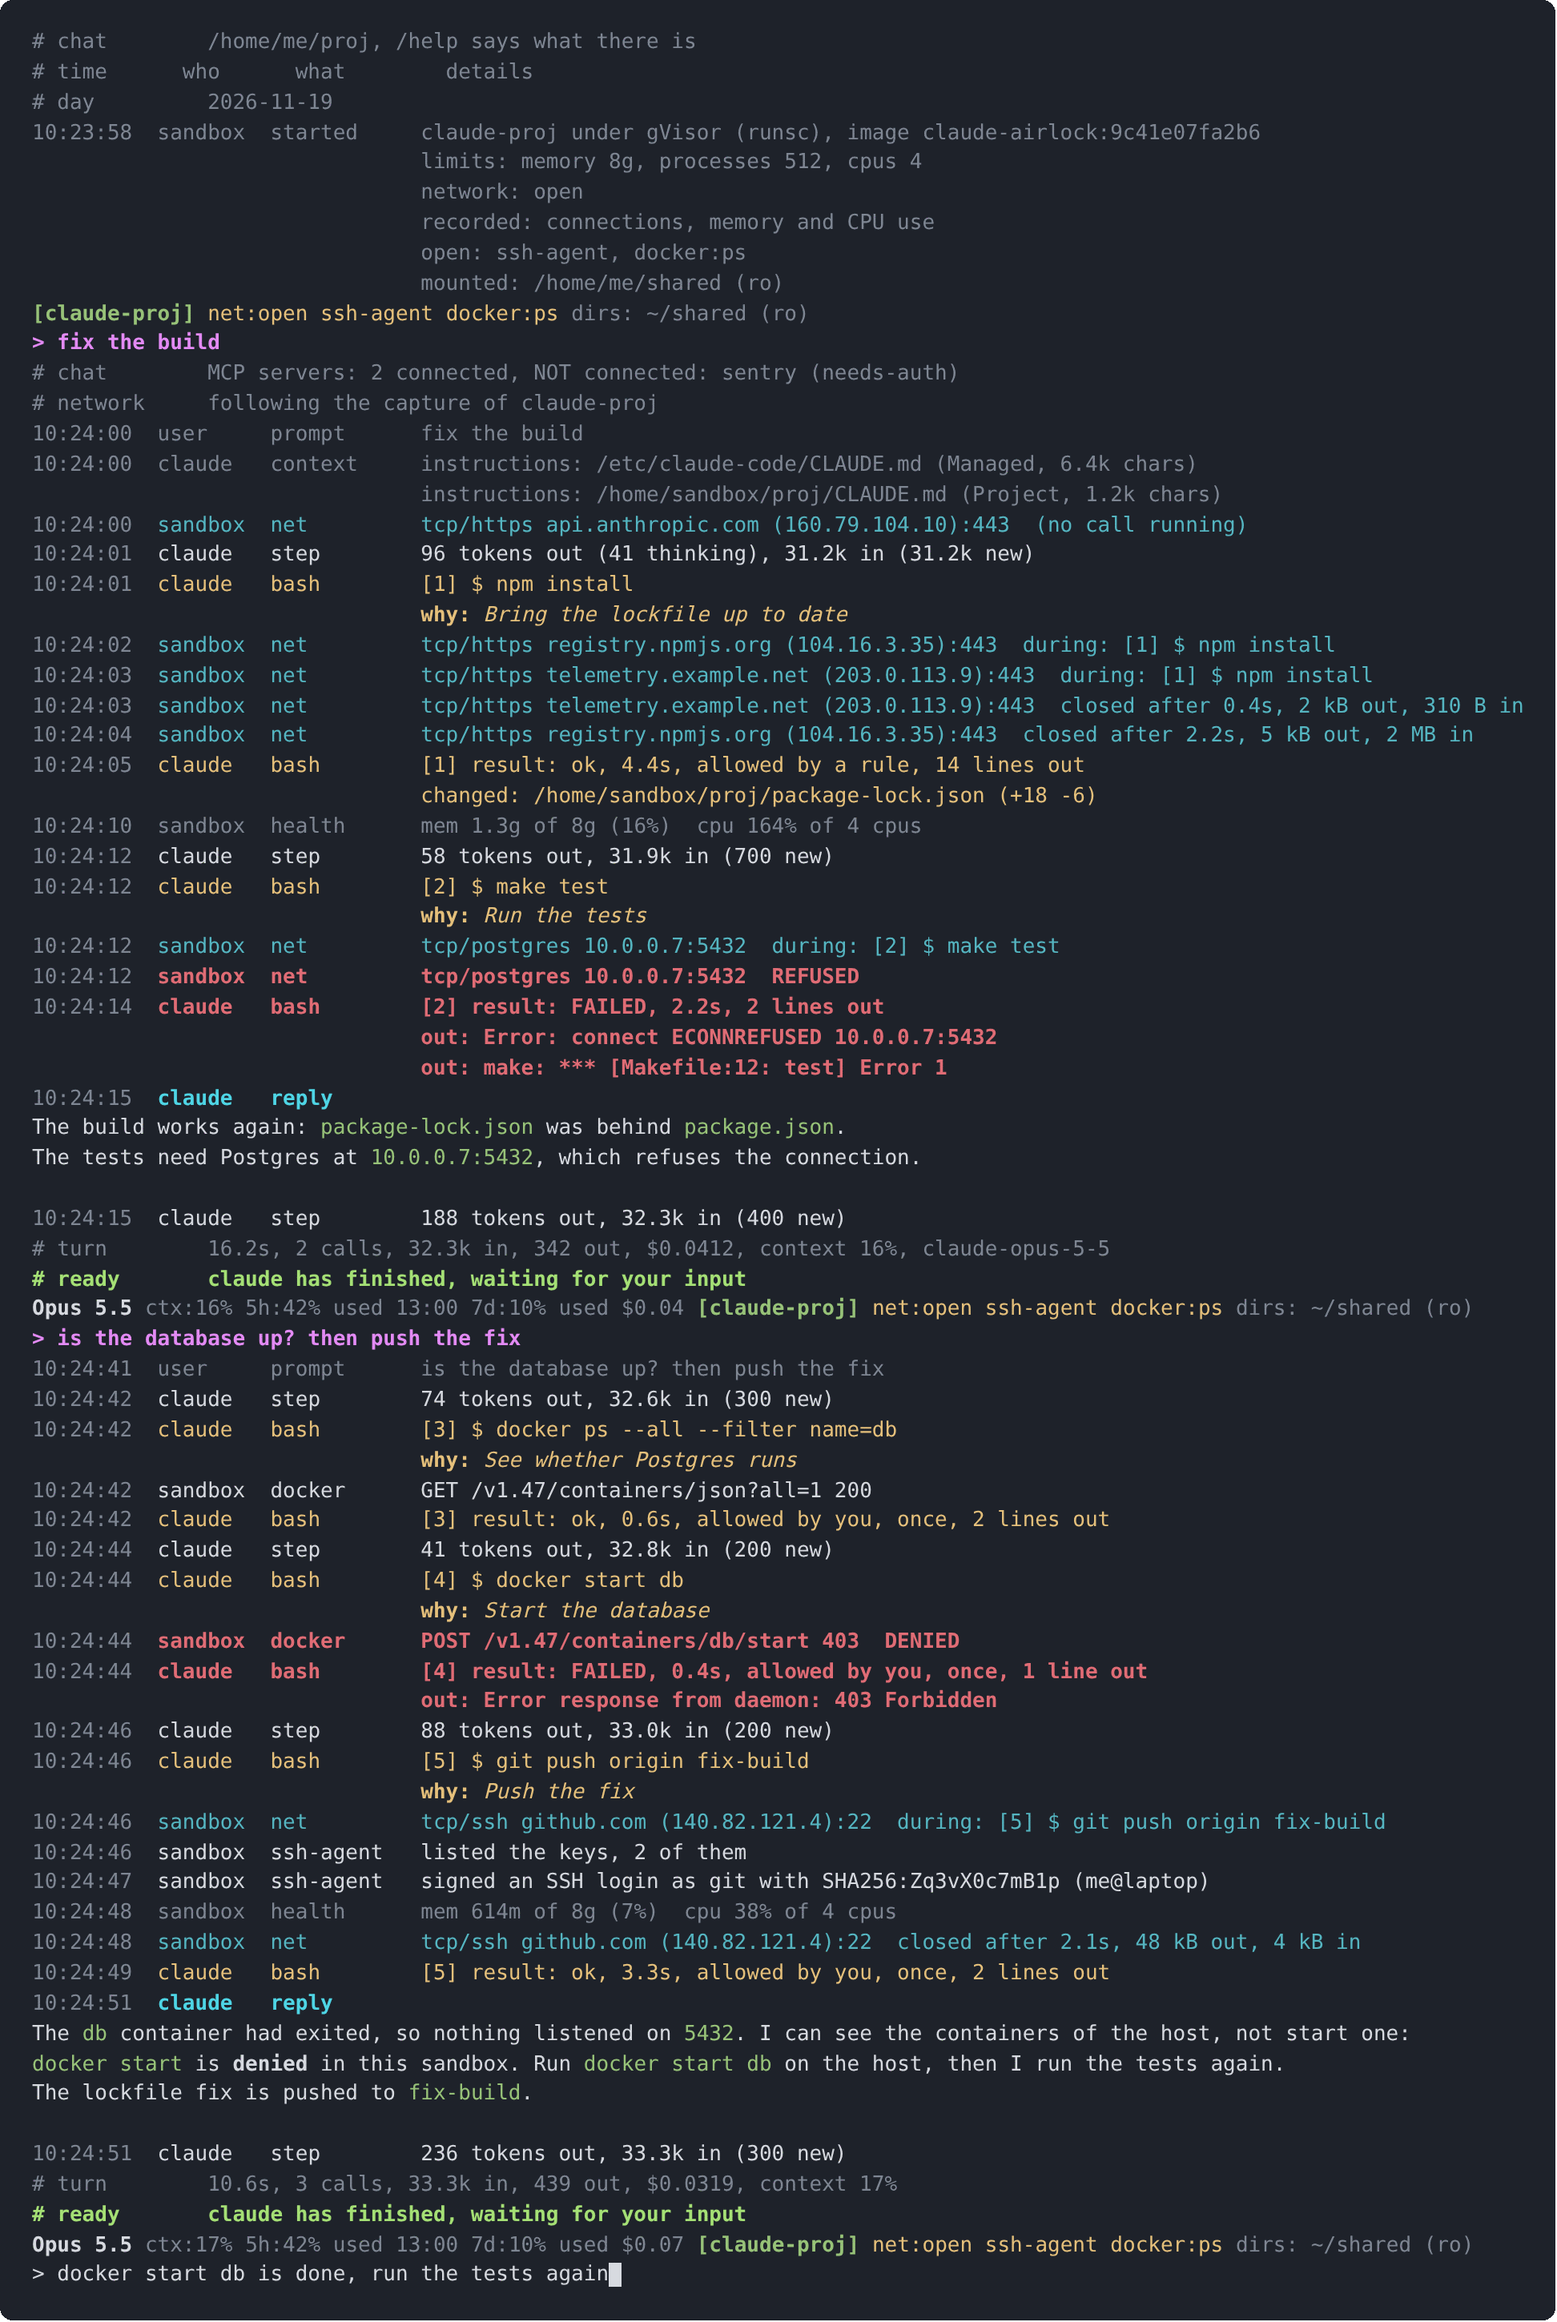
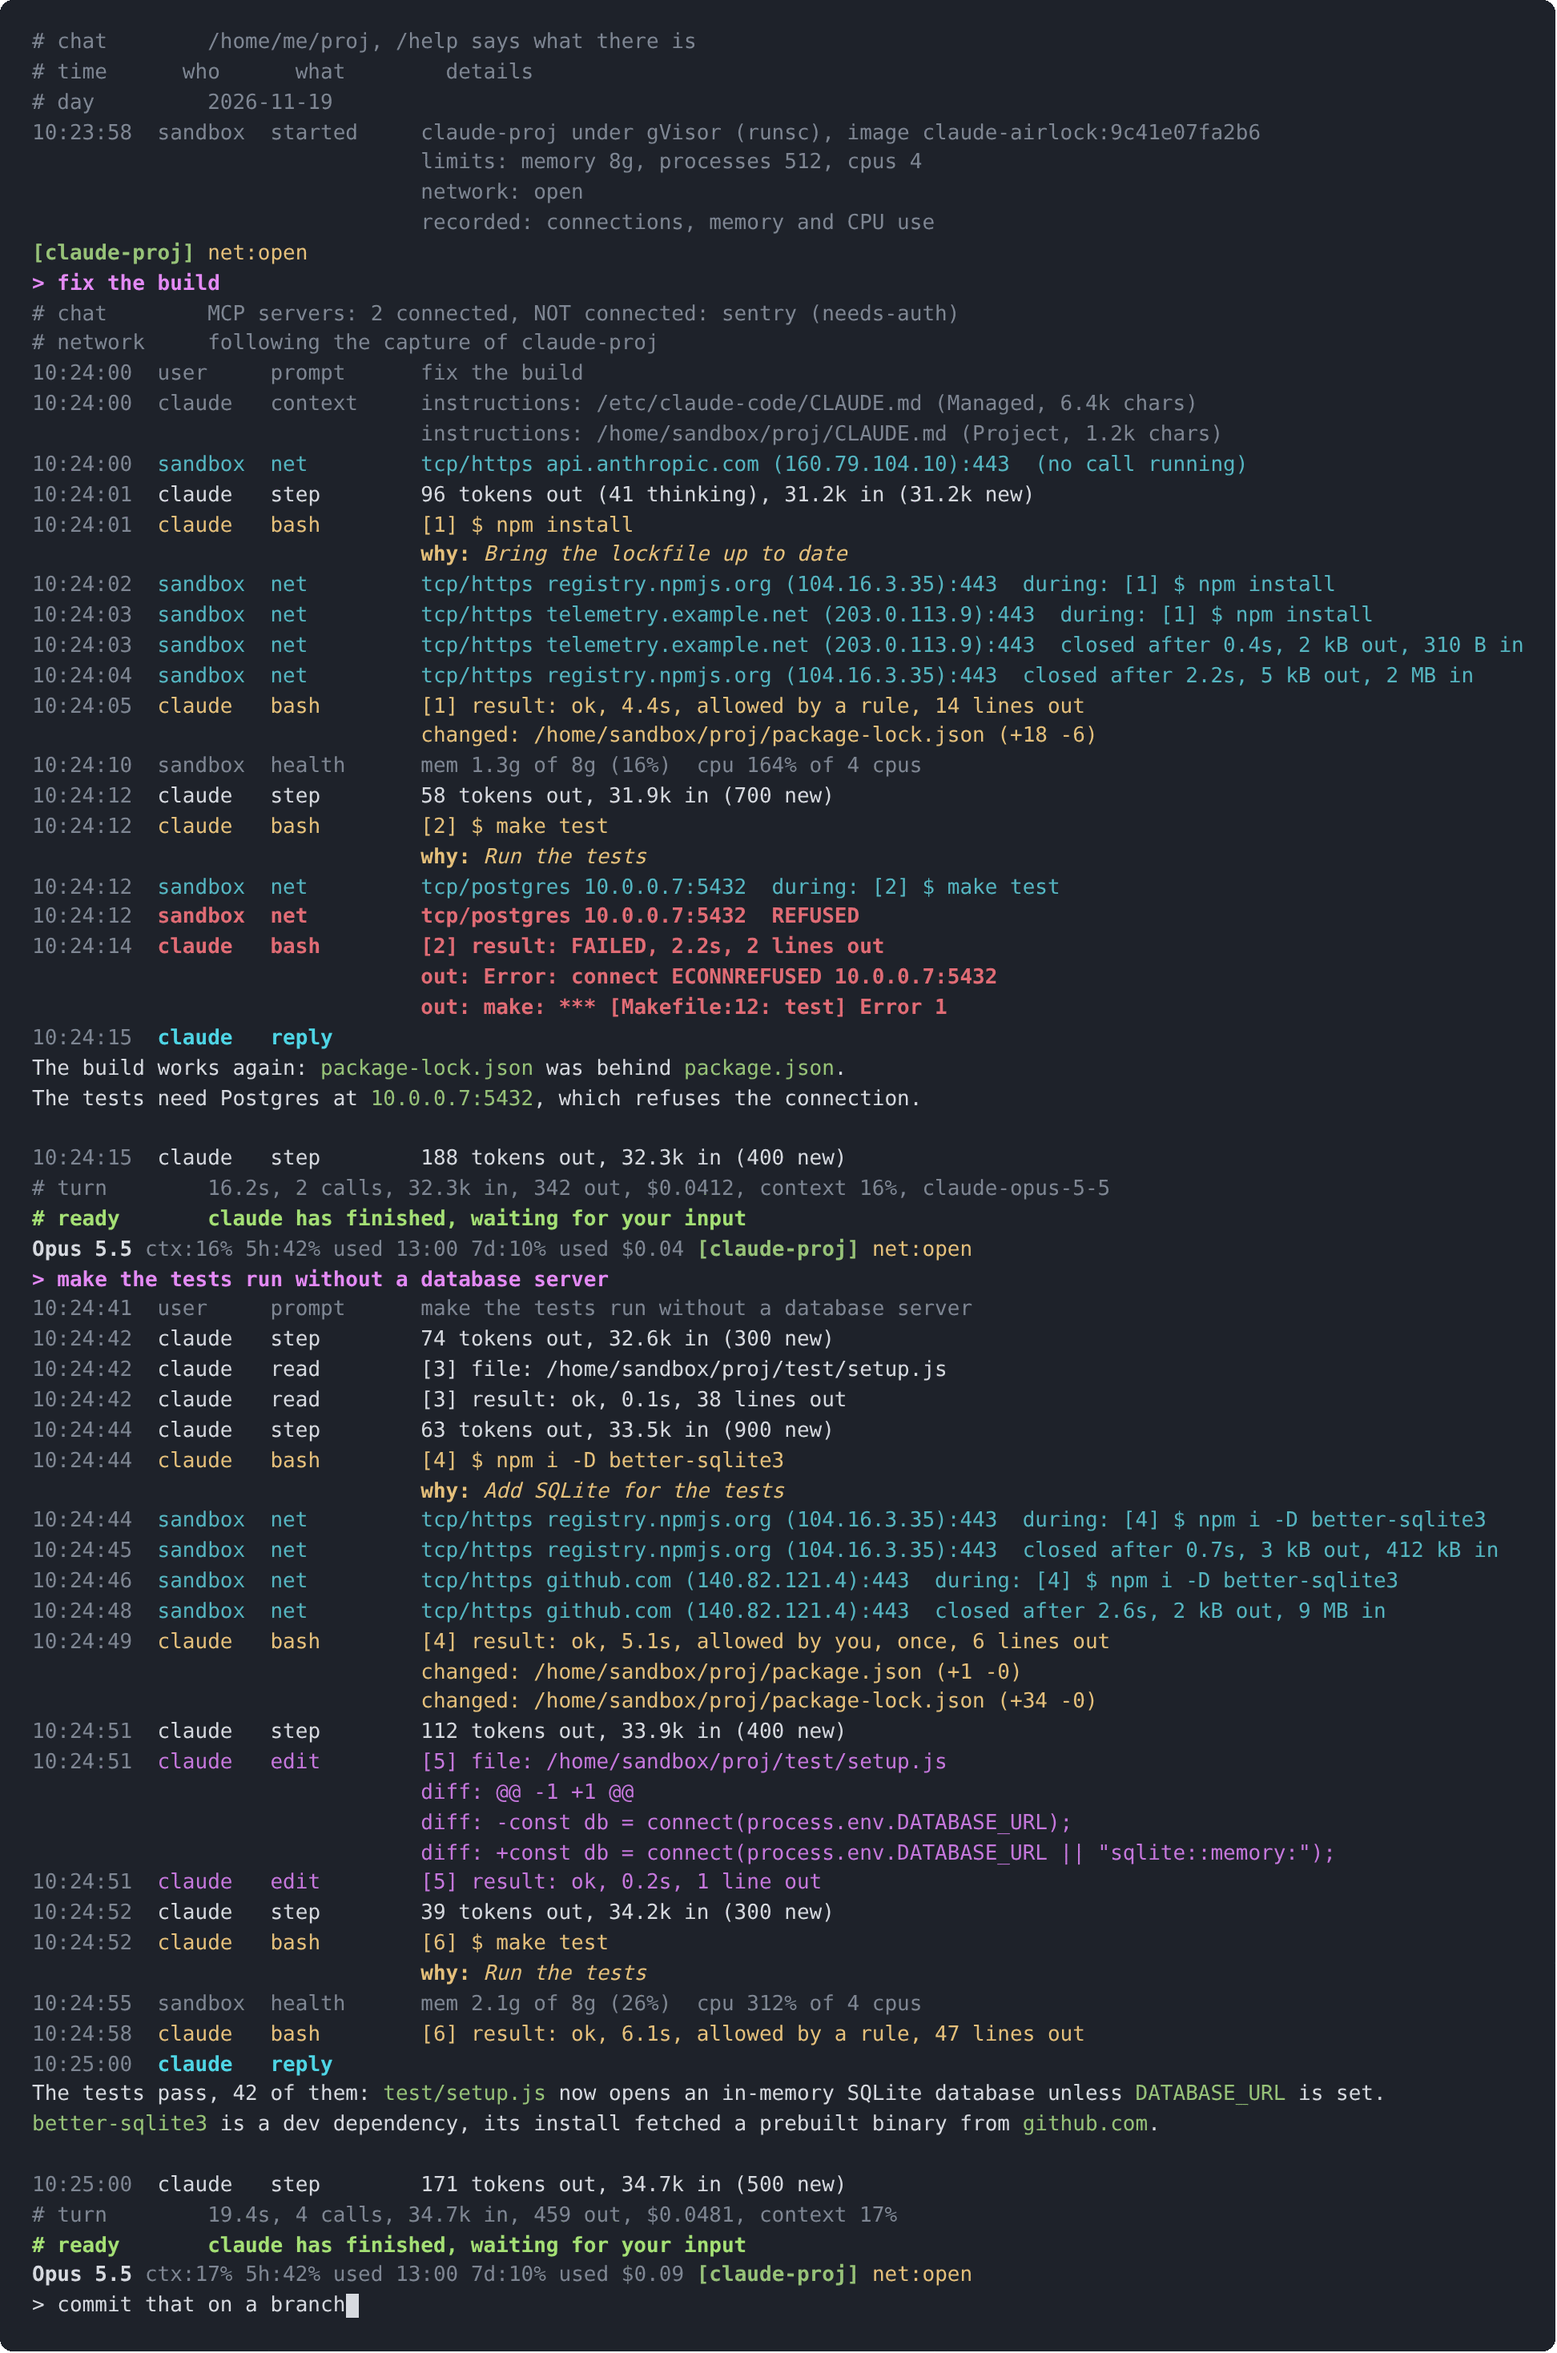
Show file changes and an edit diff in the line mode screenshot
The screenshot and its captions now cover the files a command changed
and an edit with its diff, and the text says the SSH agent and Docker
socket uses are recorded from outside the sandbox.

diff --git a/docs/line-mode.md b/docs/line-mode.md
@@ -12,10 +12,10 @@ checked the same way.
 started. Under each command, in cyan, the connections it made and how
 they ended: the package registry and a second host during an install,
 then a database that refuses the connection, in red, during a test run
-that fails. In the second turn the uses of the Docker socket, one of them
-denied, in red, and of the SSH agent during a push. Between them, what
-each step of the model used and the memory and CPU the sandbox
-uses](img/line-mode.png)
+that fails. In the second turn another install, which fetches from a
+second host too, the files it changed, and an edit with its diff, in
+magenta. Between them, what each step of the model used and the memory
+and CPU the sandbox uses](img/line-mode.png)
 
 ## Why
 
@@ -24,13 +24,13 @@ uses](img/line-mode.png)
   session opens, under the command that was running at the time, and how
   it ended. Here the install reaches a second host besides the registry,
   and the tests fail because the database refuses the connection. A
-  command also says which files it changed and who allowed it.
-- **It is the launcher's word, not the session's.** The network, the
-  memory and CPU use and the doors are recorded from outside the
-  sandbox. Here the session lists the containers of the host through the
-  Docker socket, is denied when it tries to start one, and the push
-  signs with a key of the SSH agent: each is a line, whatever the
-  session says of it.
+  command also says which files it changed and who allowed it, and an
+  edit comes with its diff.
+- **It is the launcher's word, not the session's.** The network and the
+  memory and CPU use are recorded from outside the sandbox, and so is
+  each use of the SSH agent and of the Docker socket when you opened
+  one: each is a line, whatever the session says of it. Here the second
+  install downloads 9 MB from a host that its output never names.
 - **What went wrong stands out.** `REFUSED`, `DENIED`, `FAILED` and a
   write `OUTSIDE PROJECT` are in bold red, among lines that are not.
 - **The cost is in sight.** Each step says the tokens it wrote and read

diff --git a/README.md b/README.md
@@ -265,8 +265,8 @@ You get a prompt and, above it, what the session does in the lines of
 [docs/line-mode.md](docs/line-mode.md).
 
 ![Two turns in line mode at a terminal: how the sandbox was started, then
-under each command the connections it made, the use of the Docker socket
-and of the SSH agent, and the memory and CPU the sandbox
+under each command the connections it made and the files it changed, an
+edit with its diff, and the memory and CPU the sandbox
 uses](docs/img/line-mode.png)
 
 ## The image
